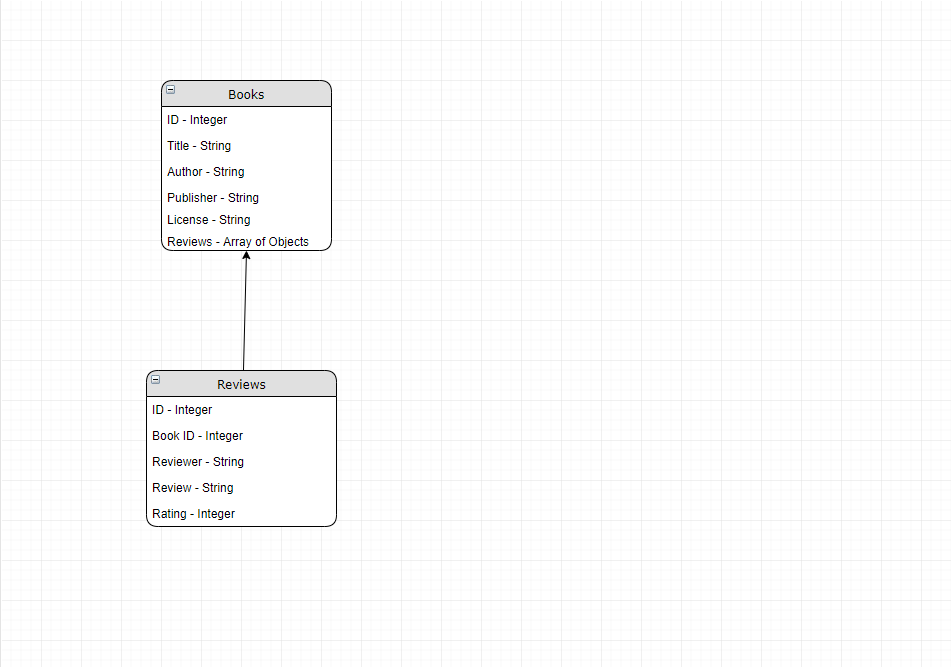
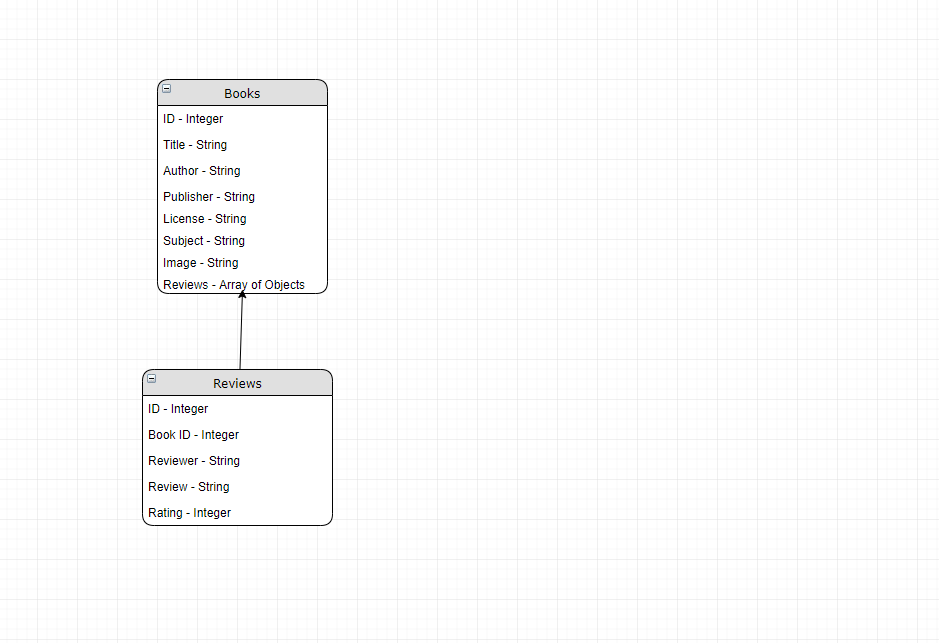
Added endpoints for reviews

Changed region(s): [[0.1544, 0.0933, 0.3706, 0.4666], [0.1544, 0.5288, 0.3706, 0.8087]]

diff --git a/reviews/reviewsRouter.js b/reviews/reviewsRouter.js
@@ -22,4 +22,56 @@ router.get("/reviews", (req, res) => {
     );
 });
 
+router.post("/reviews", (req, res) => {
+  const changes = req.body;
+
+  if (!changes.reviewer || !changes.review || !changes.rating) {
+    res.status(422).json({ error: "Please fill in all categories!" });
+  } else {
+    db.insert(changes)
+      .into("reviews")
+      .then(review => {
+        res.status(201).json(review);
+      })
+      .catch(err => {
+        res.status(500).json({
+          error: "There was an error while saving the review to the database."
+        });
+      });
+  }
+});
+
+router.delete("/reviews/:id", (req, res) => {
+  const { id } = req.params;
+  db("reviews")
+    .where({ id: id })
+    .del()
+    .then(count => {
+      if (count) {
+        res.status(200).json(count);
+      } else {
+        res.status(404).json({ error: "Review not found!" });
+      }
+    })
+    .catch(err => {
+      res.status(500).json({ error: "The review could not be removed." });
+    });
+});
+
+router.put("/reviews/:id", (req, res) => {
+  const changes = req.body;
+  const { id } = req.params;
+  db("reviews")
+    .where({ id: id })
+    .update(changes)
+    .then(count => {
+      res.status(200).json(count);
+    })
+    .catch(err => {
+      res
+        .status(500)
+        .json({ error: "The reviews information could not be modified." });
+    });
+});
+
 module.exports = router;

diff --git a/books/booksRouter.js b/books/booksRouter.js
@@ -68,14 +68,16 @@ router.post("/books", (req, res) => {
     !changes.title ||
     !changes.author ||
     !changes.publisher ||
-    !changes.license
+    !changes.license ||
+    !changes.subject ||
+    !changes.image
   ) {
     res.status(422).json({ error: "Please fill in all categories!" });
   } else {
     db.insert(changes)
       .into("books")
-      .then(project => {
-        res.status(201).json(project);
+      .then(book => {
+        res.status(201).json(book);
       })
       .catch(err => {
         res.status(500).json({
